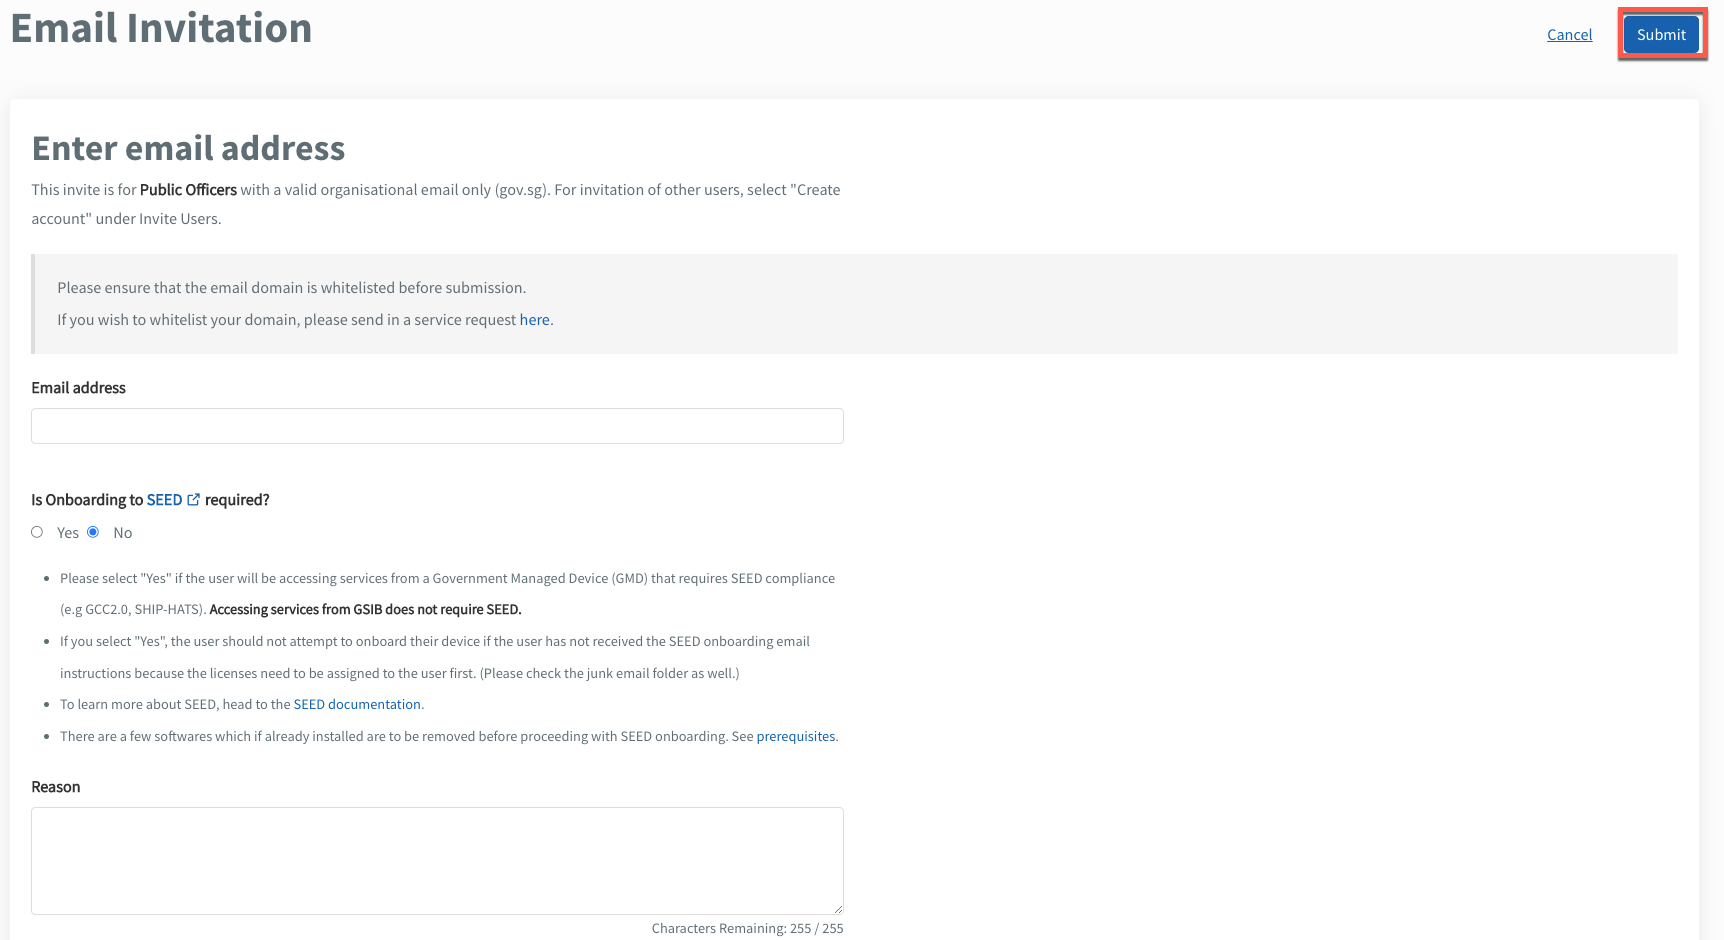
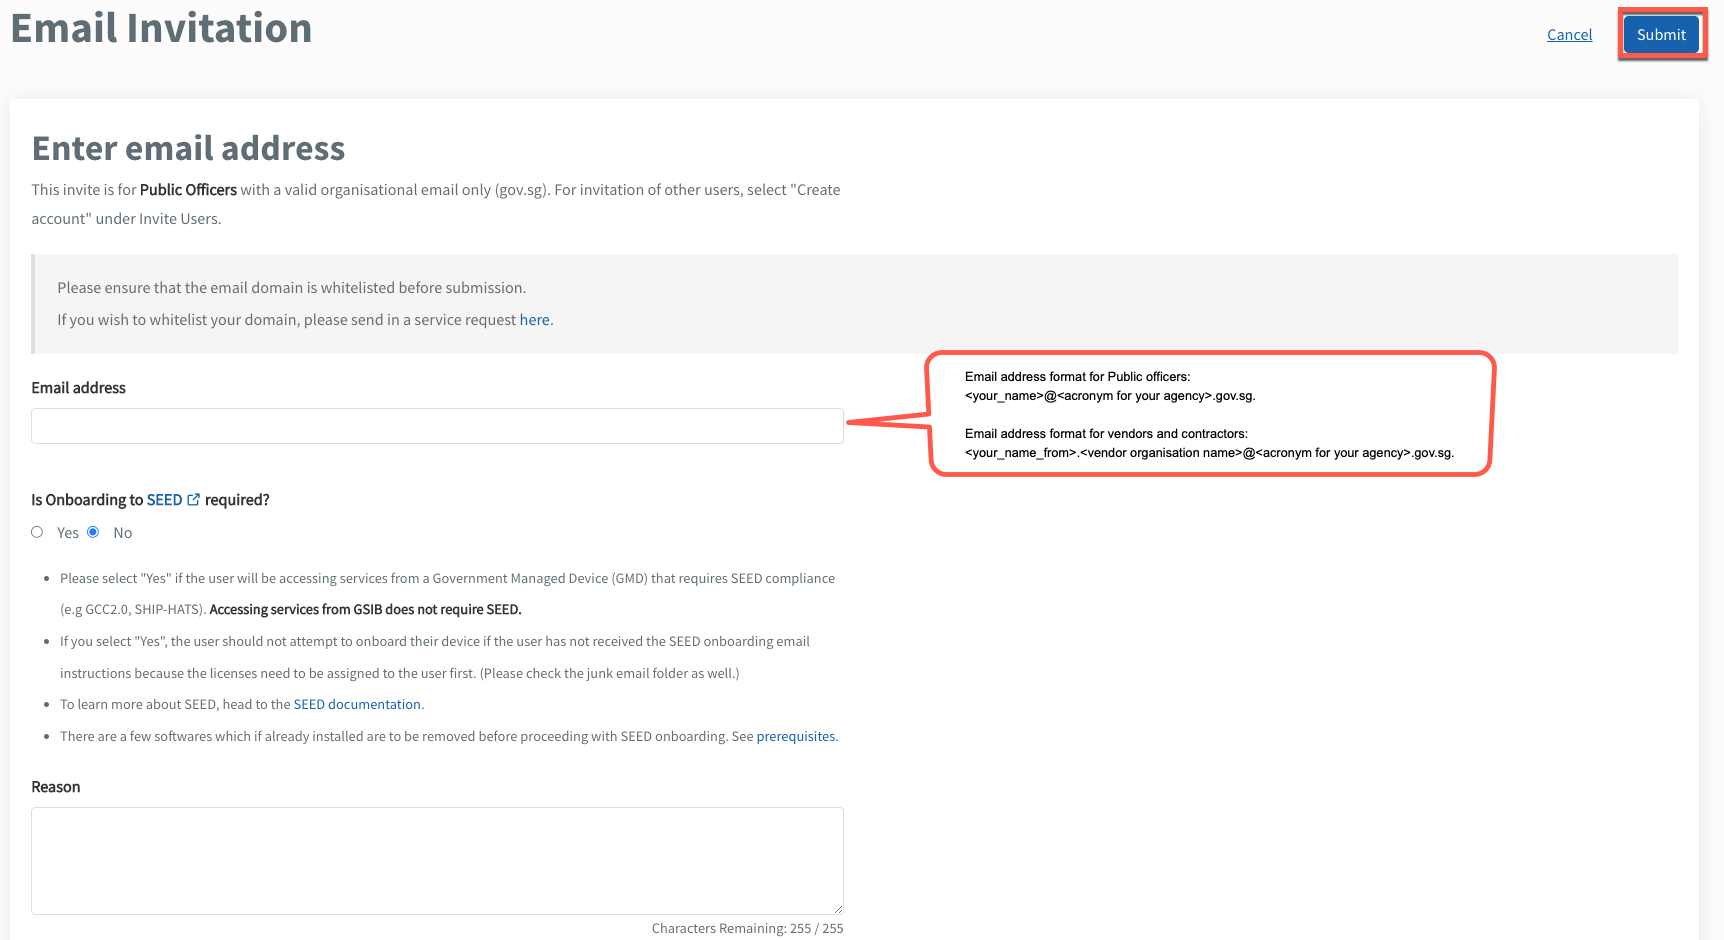
edits
edits

Changed region(s): [[0.4919, 0.3702, 0.8915, 0.5245]]

diff --git a/invite-users.md b/invite-users.md
@@ -3,7 +3,6 @@
 Public officers and vendors need to have a [TechPass](https://www.developer.tech.gov.sg/products/categories/digital-identity/techpass/overview.html) account to access [Singapore Government Tech Stack(SGTS)](https://www.developer.tech.gov.sg/singapore-government-tech-stack/overview/index.html) products. TechBiz allows public officers to send TechPass invites to other public officers or create a TechPass account on behalf of other public officers and vendors.
 
 >**Notes:**
-
 > - Public officers and vendors can also use [TechPass Portal](http://portal.techpass.gov.sg/) to do a self-service sign-up for a TechPass account. For more information, refer to [TechPass documentation.](https://docs.developer.tech.gov.sg/docs/techpass-user-guide/) 
 
 ## Prerequisites
@@ -29,9 +28,9 @@ Public officers and vendors need to have a [TechPass](https://www.developer.tech
 
 | <div style="width:270px">Invitation type</div>  | When to use |
 | :------------------------------------------ |:-------------|
-| [Email invitation](#email-invitation)| To send email invite to a public officer to create a TechPass account.
+| [Email invitation](#email-invitation)| Select this to create a TechPass account for the following users:<br> - Public officers using a non-SE GSIB device and whose organisational email  address is in the format of \<your_name>@\<acronym for your agency>.gov.sg.<br> - Vendors or contractors using a non-SE GSIB device and whose organisational email address is in the format of \<your_name_from>.\<vendor organisation name>@\<acronym for the agency>.gov.sg.
 | [Create account](#create-account) | To create a TechPass account on behalf of a public officer or a vendor.
-| [Batch upload](#batch-upload)| To create TechPass accounts for public officers and vendors.
+| [Batch upload](#batch-upload)| Select this to create TechPass accounts for more than one public officer and vendor. |
 
 ### Email invitation
 
